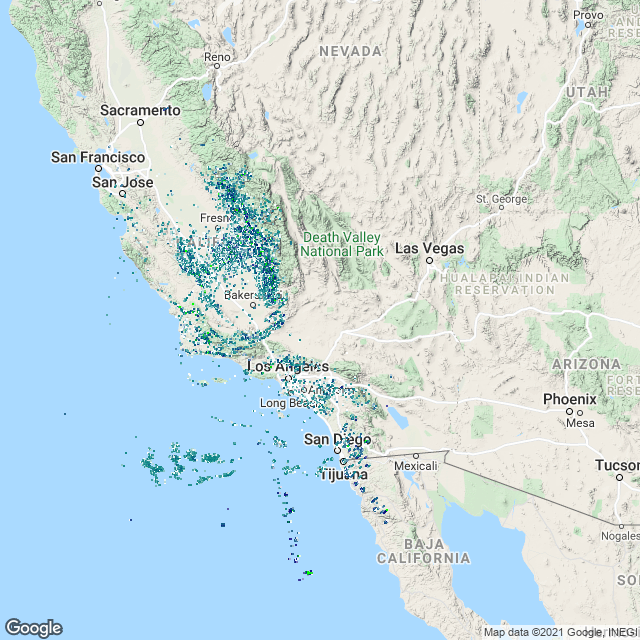
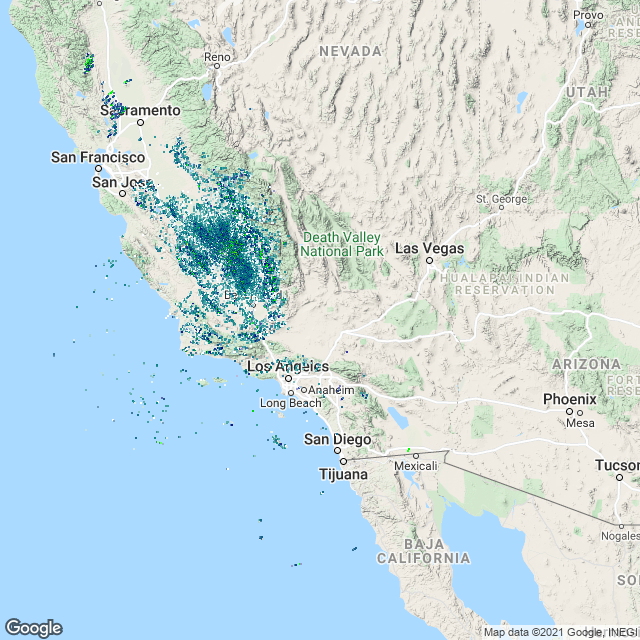
zero-pad dates in s3 bucket

diff --git a/src/GoogleMapProjection.js b/src/GoogleMapProjection.js
@@ -159,14 +159,14 @@ class GoogleMapProjection {
         let params = {
             Bucket: BUCKET,
             Delimiter: '/',
-            Prefix: `${tomorrow.getFullYear()}/${tomorrow.getMonth() + 1}/${tomorrow.getDate()}/${radar}/`
+            Prefix: `${tomorrow.getFullYear()}/${(tomorrow.getMonth() + 1).toString().padStart(2,'0')}/${tomorrow.getDate().toString().padStart(2,'0')}/${radar}/`
         };
         let dataTomorrow = await s3.listObjects(params).promise();
         if(dataTomorrow.Contents.length === 0) {
             params = {
                 Bucket: BUCKET,
                 Delimiter: '/',
-                Prefix: `${today.getFullYear()}/${today.getMonth() + 1}/${today.getDate()}/${radar}/`
+                Prefix: `${today.getFullYear()}/${(today.getMonth() + 1).toString().padStart(2,'0')}/${today.getDate().toString().padStart(2,'0')}/${radar}/`
             };
             let dataToday = await s3.listObjects(params).promise();
             if(dataToday.Contents.length !== 0) {

diff --git a/index.js b/index.js
@@ -5,7 +5,10 @@ const GoogleMapProjection = require('./src/GoogleMapProjection');
 let projection = new GoogleMapProjection(35.098, -117.561, 6, 2000, 2000);
 let radars = ['KEYX', 'KHNX', 'KVBX', 'KVTX'];
 
-projection.addPlots(radars);
-//projection.plotAll();
+(async () => {
+	await projection.addPlots(radars);
+	// projection.plotAll();
+})();
+
 
 
